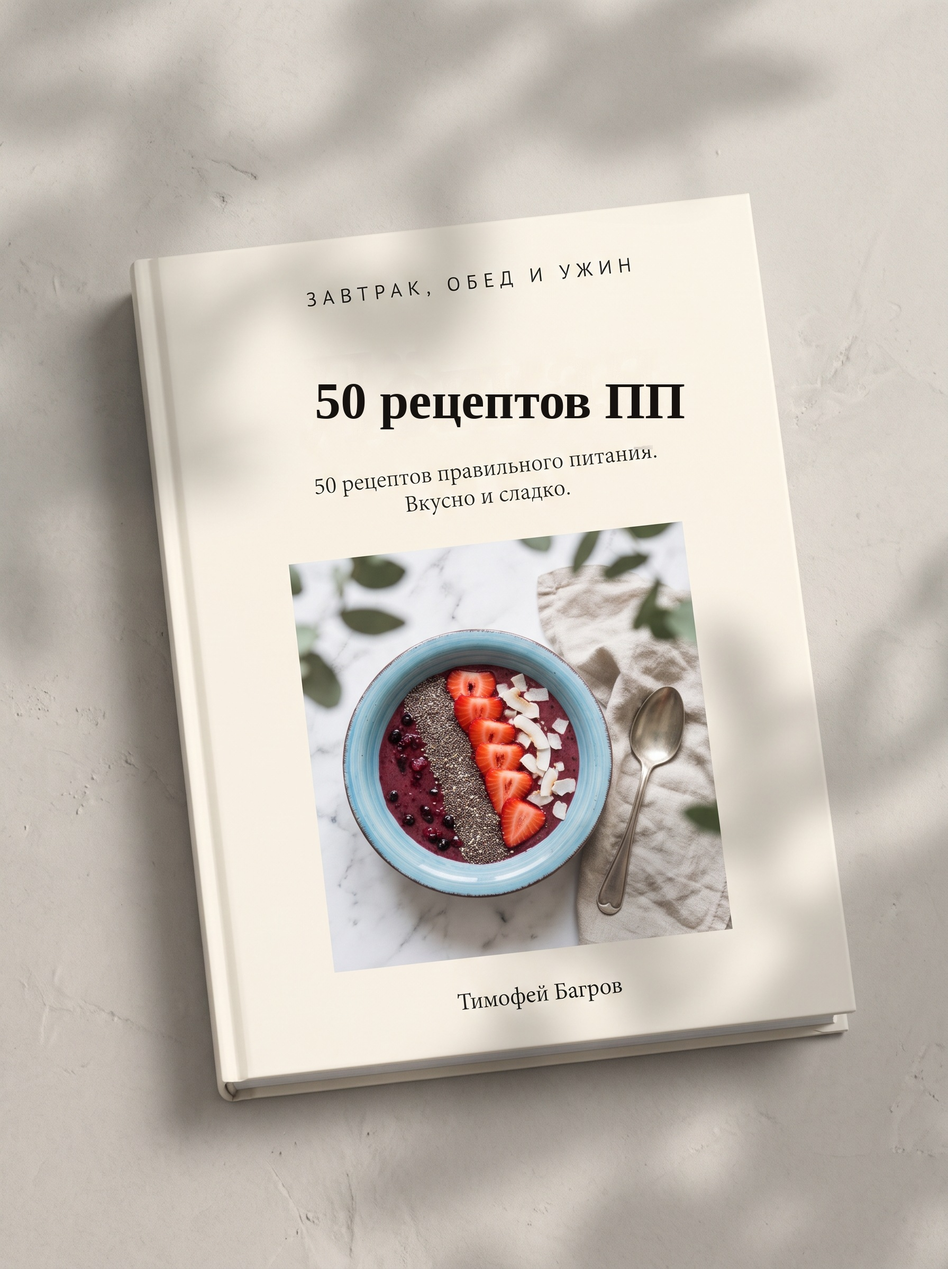
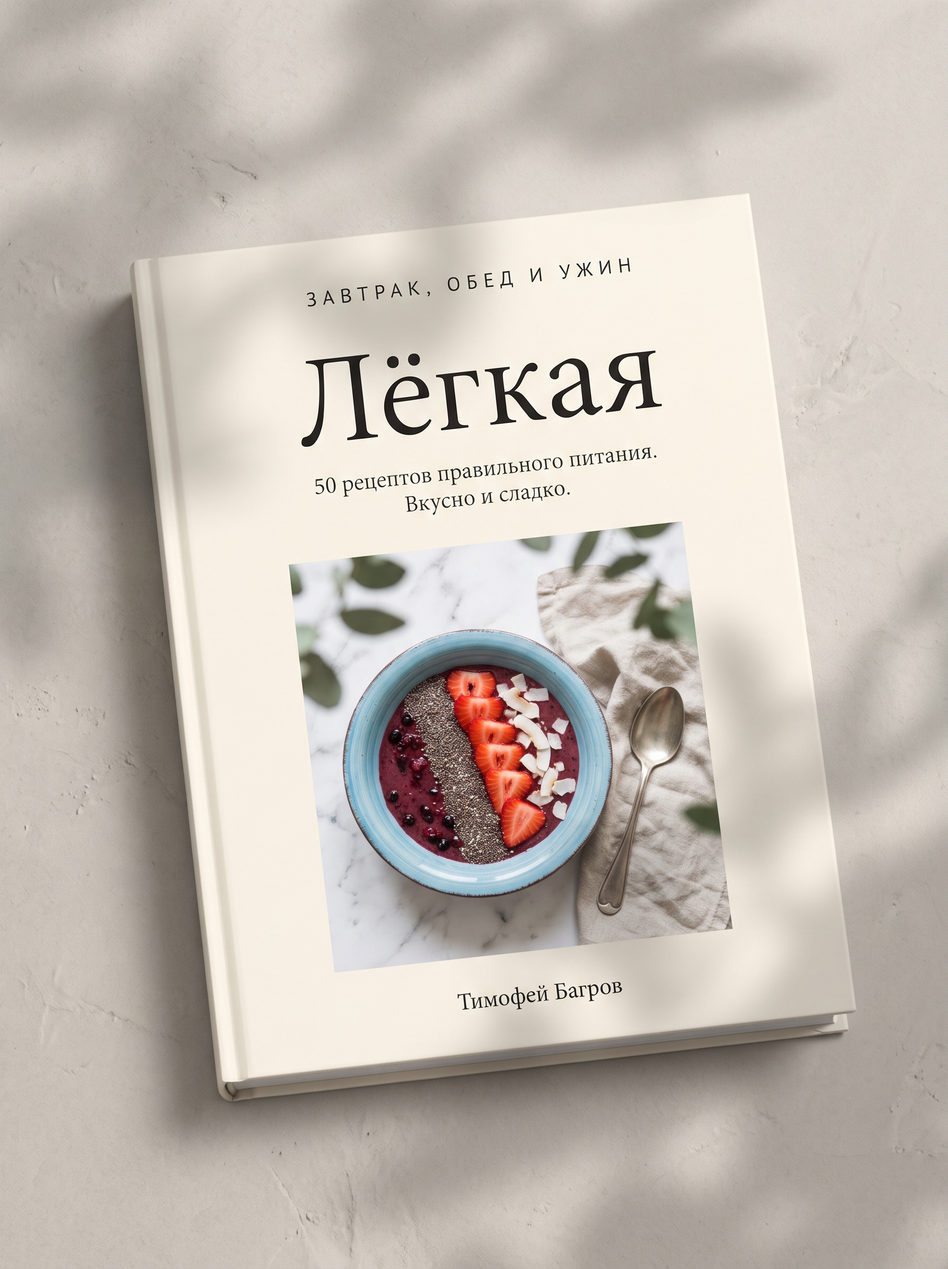
Replace the bonus book cover with the correct one titled Лёгкая.

Changed region(s): [[0.3125, 0.25, 0.7188, 0.375]]

diff --git a/src/routes/index.tsx b/src/routes/index.tsx
@@ -204,7 +204,7 @@ function Home() {
               <p className="mt-1 font-sans text-base font-semibold text-ink">Книга «50 рецептов ПП»</p>
               <p className="mt-1 font-sans text-sm leading-relaxed text-ink-soft">50 рецептов на завтрак, обед и ужин. У каждой тарелки посчитаны калории, белки, жиры и углеводы.</p>
             </div>
-            <img src="/photos/plate-cover.jpg" alt="Книга «50 рецептов ПП»" width={900} height={1200} className="mx-auto w-full max-w-[220px] rounded-xl object-contain shadow-[0_18px_40px_-24px_rgb(26_20_16/0.55)] max-lg:order-first lg:max-w-none" />
+            <img src="/photos/plate-cover.jpg?v=legkaya" alt="Книга «Лёгкая». Тимофей Багров" width={900} height={1200} className="mx-auto w-full max-w-[220px] rounded-xl object-contain shadow-[0_18px_40px_-24px_rgb(26_20_16/0.55)] max-lg:order-first lg:max-w-none" />
           </div>
         </div>
       </section>

diff --git a/src/routes/plate.tsx b/src/routes/plate.tsx
@@ -116,8 +116,8 @@ function Title() {
   return (
     <div className="mx-auto flex w-full max-w-[560px] flex-col items-center">
       <img
-        src="/photos/plate-cover.jpg"
-        alt="50 рецептов ПП. Тимофей Багров"
+        src="/photos/plate-cover.jpg?v=legkaya"
+        alt="Лёгкая. Тимофей Багров"
         className="w-full rounded-sm shadow-[0_28px_70px_-28px_rgb(40_32_24/0.55)]"
       />
       <Link
